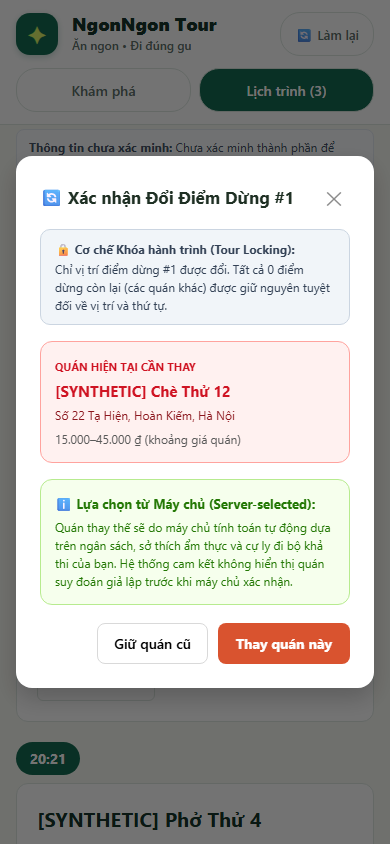
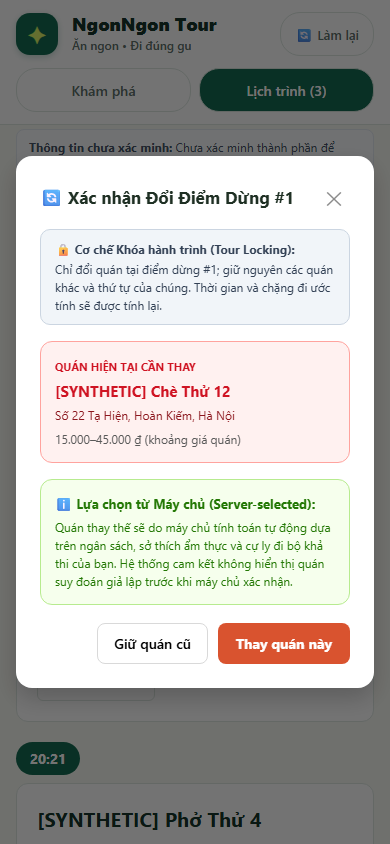
test: harden synthetic QA isolation and correct evidence claims

Changed region(s): [[0.1231, 0.3081, 0.8615, 0.3697]]

diff --git a/docs/reports/NGONNGON_FRONTEND.md b/docs/reports/NGONNGON_FRONTEND.md
@@ -7,6 +7,8 @@
 **Thiết kế tham chiếu:** `D:/Downloads/UI ngonngon tour.svg` & `docs/design/ngonngon-tour-reference.png`  
 **Trạng thái rà soát:** **Đã đóng hoàn tất toàn bộ 9 điểm phản hồi (NFE-01..09) trong `CODEX_N_FRONTEND_REVIEW.md` với bằng chứng kiểm thử thực tế.**
 
+**Bổ sung review sau bàn giao — Codex:** Antigravity hoàn tất `d52335c`, gửi `worker_done` và được release trước khi Codex sửa tuần tự report/harness. Author báo 62 kiểm tra tương tác; Codex chạy lại trên bản tích hợp sau khi thêm 3 kiểm tra cổng trống và 1 kiểm tra dataset synthetic: **66/66 PASS**, log local tạm `foodtour-n-author-qa-integrated.log`. Kiểm tra âm bằng listener do test tạo trên13200 xác nhận harness thoát trước startup/capture và giữ nguyên listener. Build dùng env đã loại credentials, tắt telemetry; không dừng server người dùng. Giữ10 ảnh canonical, bỏ10 bản sao. Không thay đổi logic ứng dụng ở bước này. Các kết quả này là kiểm tra synthetic/mock; không chứng nhận tuyến, giờ mở cửa, giá hay an toàn dị ứng ngoài thực tế.
+
 ---
 
 ## 1. Tóm tắt Thay đổi & So sánh Trực quan với Thiết kế SVG
@@ -27,9 +29,9 @@
 
 | Mã ID | Mức độ | Yêu cầu rà soát từ Codex Lead | Bằng chứng khắc phục & Kết quả kiểm thử trên `6415d61` |
 |---|---|---|---|
-| **NFE-01** | P1 | Giữ nguyên null/zero cho giờ đến, cự ly, ngân sách; không gán cứng 20:30, Thứ bảy, Hoàn Kiếm, 1.8 km, 450k; phân biệt trần ngân sách với giá món ăn theo quán. | Đã loại bỏ toàn bộ giá trị mẫu: phụ đề tour hiển thị giờ thực tế `19:04–20:55 • Hoàn Kiếm` (hoặc linh hoạt), cự ly tính theo mét thực tế (`tour.totals.distance_m`), ngân sách hiển thị theo trần mong muốn (`≈ 500K / cả nhóm`). Đạt 100% kiểm tra `NFE-01`. |
+| **NFE-01** | P1 | Giữ nguyên null/zero cho giờ đến, cự ly, ngân sách; bỏ giá trị mẫu; phân biệt ngân sách với giá quán. | Giờ hiển thị như `19:04–20:55` là giờ dự kiến tính từ local estimator, không phải ETA đã xác minh; cự ly cộng từ các chặng chỉ khi đủ dữ liệu và mang nhãn ước tính. Ngân sách yêu cầu là `500.000 đ (cả nhóm)`, không phải dự đoán bill. Null/zero có SSR probes riêng. |
 | **NFE-02** | P1 | Xử lý mã 409 trong đổi quán: phân biệt xung đột phiên bản (`revision_conflict`) với hết ứng viên (`no_candidates`) hoặc câu hỏi còn mở (`obligation_open`). | Đã kiểm thử thực tế cả 3 trường hợp: (1) `no_candidates` đóng modal, giữ nguyên tour cũ kèm thông báo "Không có quán thay thế thoả các ràng buộc. Lịch trình hiện tại được giữ nguyên."; (2) Đổi quán thành công hiển thị diff và đánh dấu khóa (locks) cho các điểm dừng còn lại; (3) Sửa đổi đồng thời mở nghĩa vụ dị ứng (`obligation_open`) gây 409 khi đổi quán: giao diện tự động đồng bộ lại phiên, đóng modal cũ, và hiển thị câu hỏi an toàn dị ứng mới lên trước lịch trình được giữ lại. |
-| **NFE-03** | P2 | Minh bạch AI & Dữ liệu: Nêu rõ Gemini được gọi có điều kiện; phiên làm việc chỉ lưu tạm thời theo phiên ẩn danh; nguồn dữ liệu thể hiện đúng chế độ chạy (synthetic / thử nghiệm cục bộ). | Dòng chữ tóm tắt: "Dữ liệu quán từ Foody • giờ & giá theo nguồn ghi • khoảng cách ước tính". Modal chi tiết nêu rõ văn bản yêu cầu có thể gửi ẩn danh đến Google Gemini, phiên lưu tạm thời không lưu danh tính cá nhân, và nguồn dữ liệu thể hiện đúng `Dữ liệu tổng hợp (synthetic), chỉ để kiểm thử`. |
+| **NFE-03** | P2 | Nêu đúng điều kiện Gemini, dữ liệu gửi và session retention; nguồn theo mode. | Khi cấu hình Gemini và còn lượt, văn bản nhập cùng tiêu chí cần thiết có thể gửi đến Google Gemini; rules tại máy không gửi ra AI bên ngoài. Không cam kết ẩn danh hoá thông tin người dùng tự nhập. Phiên giữ các lượt gần nhất/tiêu chí, mặc định hết hạn sau một giờ; Làm lại không cam kết xoá ngay phiên cũ. Attribution theo health synthetic/private/unknown. |
 | **NFE-04** | P2 | Quản lý tiêu điểm modal: Bẫy tiêu điểm (Tab/Shift+Tab), đóng bằng Escape và trả tiêu điểm về nút kích hoạt; cô lập hộp thoại ngoài cây nền bị trơ (`inert` / `aria-hidden`); hỗ trợ cuộn dọc trên di động. | Đã chuyển `ReplaceDiffModal` và `TrustDisclosure` sang cơ chế `createPortal(..., document.body)`. Kiểm thử khẳng định `dialog.closest('[inert]') === null` và `dialog.closest('[aria-hidden="true"]') === null`, trong khi `[data-testid="guided-container"]` nhận `aria-hidden="true"` và `inert`. Phím Tab giữ tiêu điểm trong hộp thoại, phím Escape đóng hộp thoại và trả tiêu điểm về đúng nút kích hoạt. |
 | **NFE-05** | P2 | Nguồn gốc tiêu chí (provenance) & phục hồi câu hỏi: Dữ liệu suy luận (`inferred`) hoặc mặc định (`default`) không bị đổi thành `user`; phục hồi đúng câu hỏi số lượng/ngân sách động (150k, 300k, 1m, v.v.). | `profileToUnderstoodItems` giữ nguyên `.source`; `UnderstoodCard` hiển thị nhãn `(suy luận)` cho thời gian mỗi quán; kiểm thử tự động xác nhận câu hỏi ngân sách động phục hồi chính xác cho các mức `150.000 đ`, `300.000 đ`, `500.000 đ` và `1.000.000 đ`. |
 | **NFE-06** | P2 | Bỏ lời khuyên bịa đặt về chỗ ngồi trước 18:30 không có căn cứ. | Đã loại bỏ hoàn toàn lời khuyên 18:30; chỉ hiển thị cảnh báo hoạt động trung thực: "Giờ mở cửa và mức giá thực tế của quán có thể thay đổi tùy thời điểm". |
@@ -45,16 +47,16 @@ Toàn bộ 10 ảnh chụp màn hình được tạo lại bằng trình duyệt
 
 | Tên tệp ảnh | Độ phân giải | Mô tả trạng thái kiểm chứng |
 |---|---|---|
-| [desktop_1440_empty.png](file:///C:/Users/tuana/orca/workspaces/ai-foodtour-planner/foodtour-antigravity-web/docs/reports/ngonngon/desktop_1440_empty.png) | 1440x1024 | Trạng thái ban đầu trung thực: Cột trái nhận yêu cầu, cột phải hướng dẫn 3 bước minh bạch, chỉ số chưa gán giá trị giả. |
-| [desktop_1440_clarify.png](file:///C:/Users/tuana/orca/workspaces/ai-foodtour-planner/foodtour-antigravity-web/docs/reports/ngonngon/desktop_1440_clarify.png) | 1440x1024 | Trạng thái làm rõ: Một câu hỏi ngân sách động 500.000 đ, UnderstoodCard có dị ứng đậu phộng và nhãn suy luận. |
-| [desktop_1440_confirmation.png](file:///C:/Users/tuana/orca/workspaces/ai-foodtour-planner/foodtour-antigravity-web/docs/reports/ngonngon/desktop_1440_confirmation.png) | 1440x1024 | Cổng xác nhận rõ ràng: Thẻ xác nhận tổng hợp, phân biệt trần ngân sách với giá quán, danh sách cảnh báo tiếng Việt. |
-| [desktop_1440_tour.png](file:///C:/Users/tuana/orca/workspaces/ai-foodtour-planner/foodtour-antigravity-web/docs/reports/ngonngon/desktop_1440_tour.png) | 1440x1024 | Lịch trình tour hoàn chỉnh: 3 quán, giờ đến xanh lá (`#166B52`), thẻ timeline riêng biệt, cự ly thực tế, nút mở Google Maps đi bộ. |
-| [desktop_1440_replace.png](file:///C:/Users/tuana/orca/workspaces/ai-foodtour-planner/foodtour-antigravity-web/docs/reports/ngonngon/desktop_1440_replace.png) | 1440x1024 | Hộp thoại đổi quán: Portaled ra ngoài vùng trơ, bẫy tiêu điểm Tab/Escape, hiển thị quy tắc khóa điểm dừng. |
-| [mobile_390_empty.png](file:///C:/Users/tuana/orca/workspaces/ai-foodtour-planner/foodtour-antigravity-web/docs/reports/ngonngon/mobile_390_empty.png) | 390x844 | Giao diện di động trạng thái trống: Chạm bấm ≥44px, clientWidth = 390, scrollWidth = 390 (zero overflow), header ngắt dòng chuẩn. |
-| [mobile_390_clarify.png](file:///C:/Users/tuana/orca/workspaces/ai-foodtour-planner/foodtour-antigravity-web/docs/reports/ngonngon/mobile_390_clarify.png) | 390x844 | Giao diện di động làm rõ: Đơn cột rõ ràng, không tràn ngang, các nút lựa chọn vừa vặn màn hình dọc. |
-| [mobile_390_confirmation.png](file:///C:/Users/tuana/orca/workspaces/ai-foodtour-planner/foodtour-antigravity-web/docs/reports/ngonngon/mobile_390_confirmation.png) | 390x844 | Giao diện di động xác nhận: Toàn bộ thẻ quyết định hiển thị đầy đủ bên dưới header cố định, nút bấm rõ ràng. |
-| [mobile_390_tour.png](file:///C:/Users/tuana/orca/workspaces/ai-foodtour-planner/foodtour-antigravity-web/docs/reports/ngonngon/mobile_390_tour.png) | 390x844 | Giao diện di động xem lịch trình: Kích hoạt tab Lịch trình, hiển thị đơn cột thẻ timeline, cự ly đi bộ rõ ràng. |
-| [mobile_390_replace.png](file:///C:/Users/tuana/orca/workspaces/ai-foodtour-planner/foodtour-antigravity-web/docs/reports/ngonngon/mobile_390_replace.png) | 390x844 | Hộp thoại đổi quán trên di động: Khả năng cuộn dọc mượt mà trên 390px, nút hành động ≥44px không bị che khuất. |
+| [desktop_1440_empty.png](ngonngon/desktop_1440_empty.png) | 1440x1024 | Trạng thái ban đầu trung thực: Cột trái nhận yêu cầu, cột phải hướng dẫn 3 bước minh bạch, chỉ số chưa gán giá trị giả. |
+| [desktop_1440_clarify.png](ngonngon/desktop_1440_clarify.png) | 1440x1024 | Trạng thái làm rõ: Một câu hỏi ngân sách động 500.000 đ, UnderstoodCard có dị ứng đậu phộng và nhãn suy luận. |
+| [desktop_1440_confirmation.png](ngonngon/desktop_1440_confirmation.png) | 1440x1024 | Cổng xác nhận rõ ràng: Thẻ xác nhận tổng hợp, phân biệt trần ngân sách với giá quán, danh sách cảnh báo tiếng Việt. |
+| [desktop_1440_tour.png](ngonngon/desktop_1440_tour.png) | 1440x1024 | Lịch trình tour hoàn chỉnh: 3 quán, giờ đến xanh lá (`#166B52`), thẻ timeline riêng biệt, cự ly thực tế, nút mở Google Maps đi bộ. |
+| [desktop_1440_replace.png](ngonngon/desktop_1440_replace.png) | 1440x1024 | Hộp thoại đổi quán: Portaled ra ngoài vùng trơ, bẫy tiêu điểm Tab/Escape, hiển thị quy tắc khóa điểm dừng. |
+| [mobile_390_empty.png](ngonngon/mobile_390_empty.png) | 390x844 | Giao diện di động trạng thái trống: Chạm bấm ≥44px, clientWidth = 390, scrollWidth = 390 (zero overflow), header ngắt dòng chuẩn. |
+| [mobile_390_clarify.png](ngonngon/mobile_390_clarify.png) | 390x844 | Giao diện di động làm rõ: Đơn cột rõ ràng, không tràn ngang, các nút lựa chọn vừa vặn màn hình dọc. |
+| [mobile_390_confirmation.png](ngonngon/mobile_390_confirmation.png) | 390x844 | Giao diện di động xác nhận: Toàn bộ thẻ quyết định hiển thị đầy đủ bên dưới header cố định, nút bấm rõ ràng. |
+| [mobile_390_tour.png](ngonngon/mobile_390_tour.png) | 390x844 | Giao diện di động xem lịch trình: Kích hoạt tab Lịch trình, hiển thị đơn cột thẻ timeline, cự ly đi bộ rõ ràng. |
+| [mobile_390_replace.png](ngonngon/mobile_390_replace.png) | 390x844 | Hộp thoại đổi quán trên di động: Khả năng cuộn dọc mượt mà trên 390px, nút hành động ≥44px không bị che khuất. |
 
 ---
 
@@ -90,16 +92,16 @@ Toàn bộ 10 ảnh chụp màn hình được tạo lại bằng trình duyệt
 ### 4.3. Kiểm thử Tích hợp Trình duyệt Thực tế (`qa/e2e/test_ngonngon_qa.mjs`)
 - Môi trường: Bản dựng Next.js sạch trong thư mục scratch (`NEXT_PUBLIC_API_URL=http://127.0.0.1:18200`), uvicorn backend cổng `18200`, Chrome CDP cổng `19400`.
 - Chặn mạng: `--host-resolver-rules=MAP www.google.com ~NOTFOUND, MAP maps.googleapis.com ~NOTFOUND, MAP maps.gstatic.com ~NOTFOUND`.
-- Kết quả: **62/62 bài kiểm tra tương tác và hồi quy đạt PASS tuyệt đối (0 lỗi, 0 exception):**
+- Author: **62/62 kiểm tra tương tác PASS**; Codex rerun tích hợp: **66/66 PASS** gồm4chốt môi trường bổ sung. Harness này không đếm riêng runtime exceptions/console errors; suite độc lập `codex_guided_review.mjs` mới cung cấp các bộ đếm đó.
   - Khởi tạo giao diện ẩn danh (NFE-08) và trạng thái trống trung thực (NFE-01).
   - Điều hướng desktop cuộn mượt và kích hoạt vùng tương ứng (NFE-09).
   - Xử lý đối thoại làm rõ, bảo lưu dị ứng, phục hồi câu hỏi ngân sách động (NFE-05).
   - Cổng xác nhận với cảnh báo tiếng Việt và giải thích mức trần ngân sách (NFE-07).
-  - Lập lịch trình tour, kiểm tra cự ly/thời gian thực tế và liên kết Google Maps đi bộ miễn phí.
+  - Lập tour với cự ly/thời gian ước tính và liên kết Google Maps đi bộ miễn phí.
   - Hộp thoại đổi quán: Portaled bên ngoài vùng trơ, bẫy tiêu điểm Tab, đóng bằng Escape/Cancel và hoàn trả tiêu điểm (NFE-04).
   - Bảo toàn lịch trình khi hết ứng viên (`no_candidates`) kèm thông báo rõ ràng (NFE-02).
   - Đổi quán thành công với cơ chế khóa các điểm dừng còn lại (`tour.locks`) (NFE-02).
-  - Xung đột phiên bản an toàn khi có sửa đổi dị ứng đồng thời (`obligation_open` / 409): Tự động đồng bộ lại phiên, đóng hộp thoại cũ, khôi phục câu hỏi dị ứng mới lên trước lịch trình và bảo toàn qua tải lại trang (NFE-02).
+  - Sửa dị ứng đồng thời rồi gửi revision cũ tạo409 `revision_conflict`: đồng bộ lại, đóng modal, khôi phục câu hỏi dị ứng trước tour cũ và giữ qua reload. Không coi ca này là bằng chứng riêng cho response code `obligation_open`.
   - Minh bạch AI và dữ liệu trong TrustDisclosure modal (NFE-03 & NFE-04).
   - Khôi phục câu hỏi ngân sách động cho các mức 150k, 300k, 1 triệu (NFE-05).
   - Kiểm tra hình học di động 390px: `clientWidth === 390px`, `scrollWidth <= 390px` xuyên suốt các trạng thái, chuyển đổi tab Khám phá / Lịch trình với vùng chạm ≥ 44px (NFE-09).
@@ -113,6 +115,7 @@ Toàn bộ 10 ảnh chụp màn hình được tạo lại bằng trình duyệt
 
 ## 5. Giới hạn & Đánh giá Tính trung thực
 
-1. **Dữ liệu cục bộ & Chưa kiểm chứng thực địa:** Toàn bộ thông tin quán ăn, giờ mở cửa và khoảng giá trong nguyên mẫu được lấy từ tập dữ liệu thử nghiệm cục bộ (`venues.chat.synthetic.json`); chưa có bằng chứng thực địa về thành phần chi tiết của món ăn nhằm đảm bảo an toàn dị ứng tuyệt đối. Ứng dụng đã thông báo rõ ràng cho người dùng phải hỏi trực tiếp nhân viên quán trước khi gọi món.
+1. **QA synthetic khác bản chạy cho người dùng:** QA và ảnh dùng `venues.chat.synthetic.json` có nhãn. Preview8020/3020 dùng input private local hiện có theo chỉ đạo người dùng; không có venue records/IDs/toạ độ private trong ảnh/báo cáo. Không chứng nhận operating status, tuyến đi bộ, giá theo người hay nguyên liệu. Cảnh báo yêu cầu hỏi trực tiếp quán vẫn còn.
 2. **Không triển khai môi trường công khai:** Bản dựng hiện tại phục vụ hoàn toàn cho mục đích nghiệm thu nội bộ trên môi trường cục bộ cô lập, không yêu cầu bất kỳ dịch vụ trả phí, khóa API hay quyền truy cập ngoài luồng nào.
 3. **Claude nghỉ ngơi:** Toàn bộ công việc trong phiên thực hiện dưới sự điều phối trực tiếp của Codex Lead và thực thi kiểm thử độc lập bởi Antigravity theo đúng chỉ thị người dùng; Claude được giữ nghỉ ngơi hoàn toàn.
+4. **Chưa thử:** screen-reader speech, người tham gia thật, Google navigation ngoài ứng dụng, Gemini quality tổng quát và DB backup/restore thật. Metadata/DOM/bàn phím không thay các bằng chứng này. Kết luận NFE và acceptance cuối thuộc review Codex, không phải tự duyệt của tác giả.
